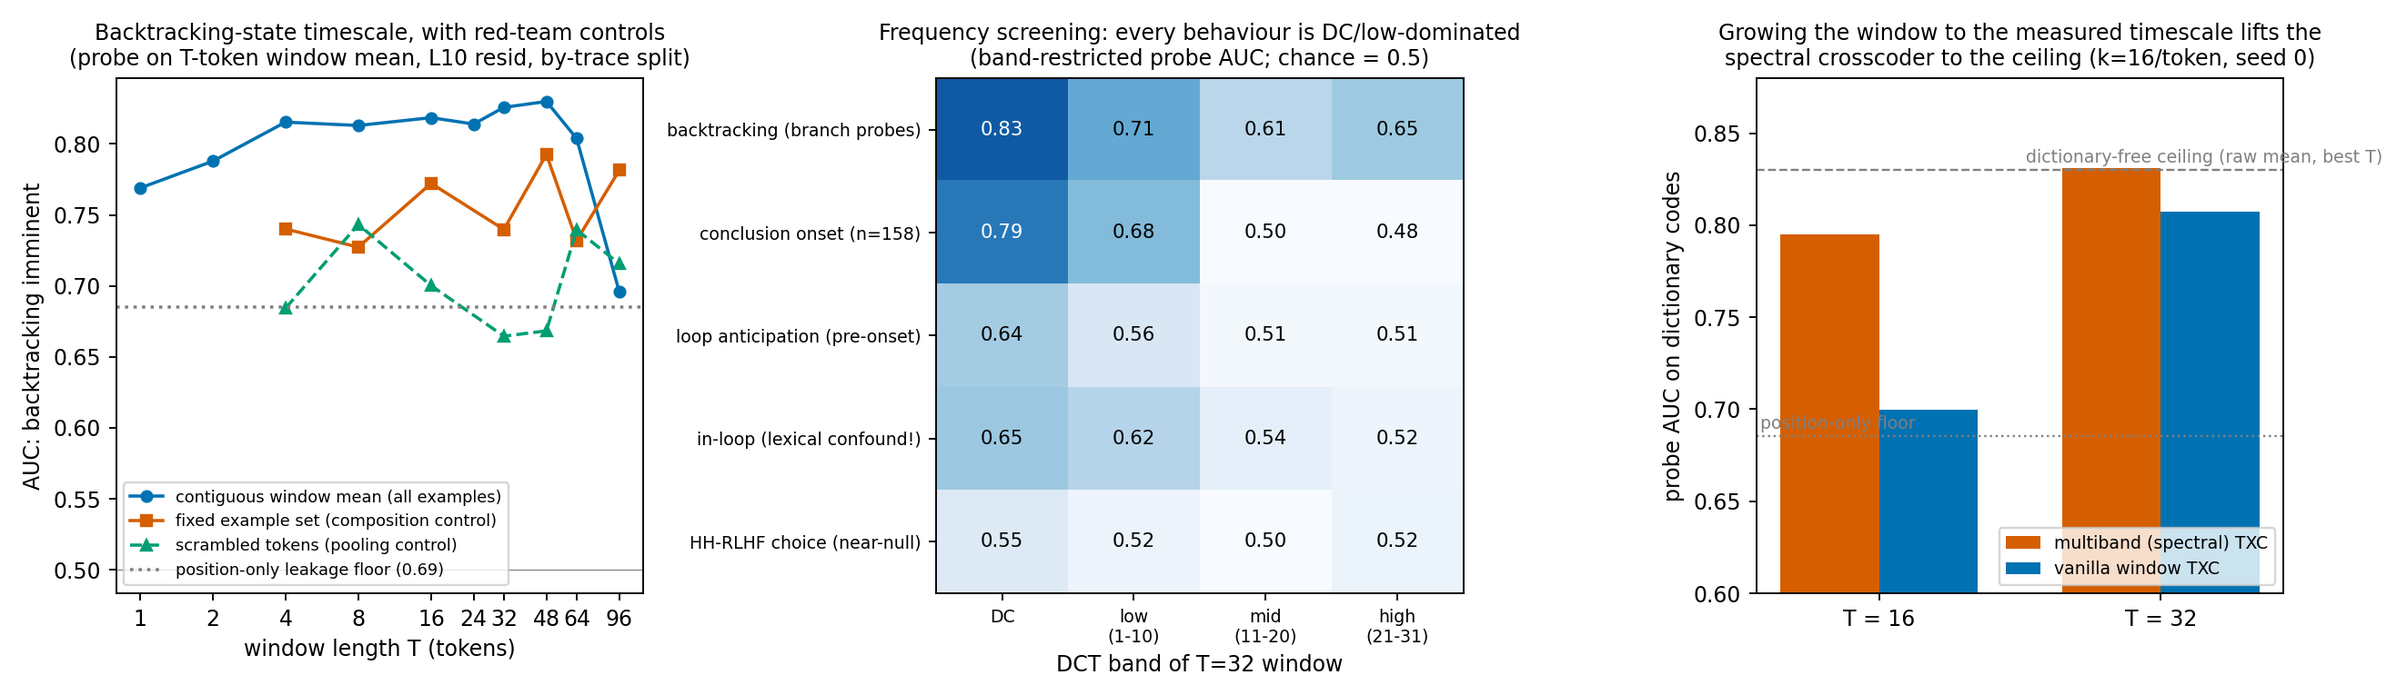
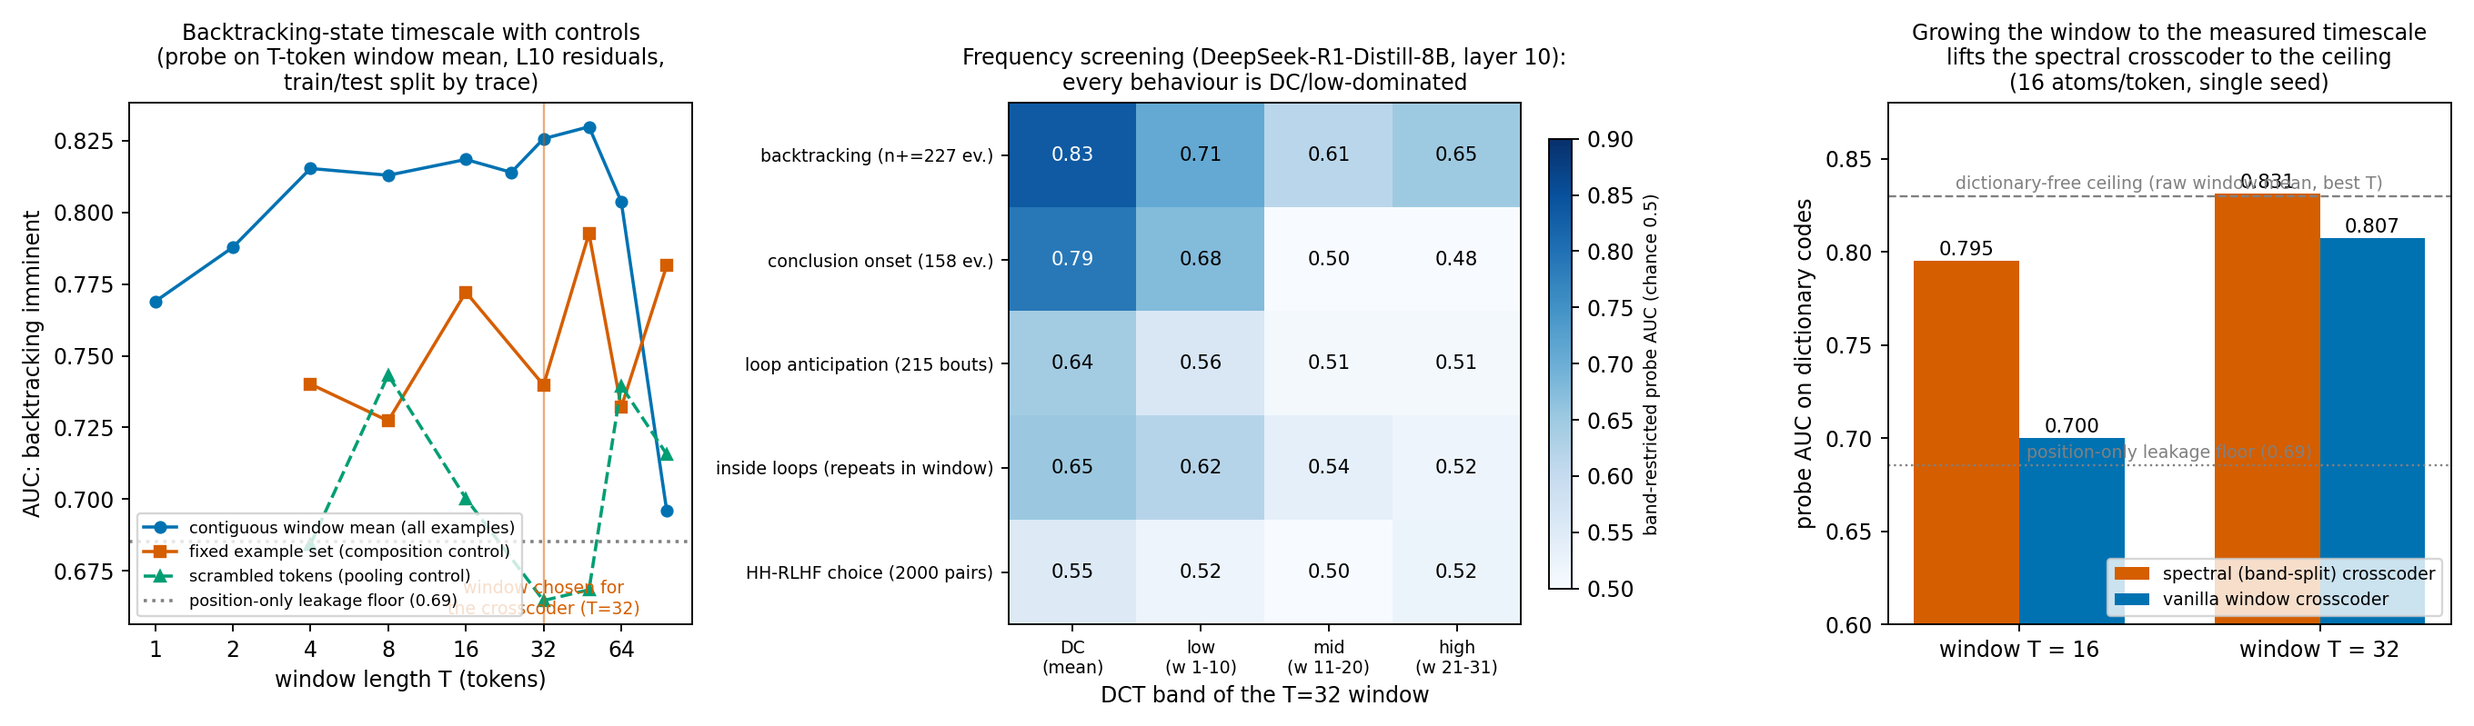
sprint2: review-driven rewrite — honest headline, rescoped genericity, loop position floor

diff --git a/docs/dmitry/sprints/2026-06-11_spectral_sprint2/summary.md b/docs/dmitry/sprints/2026-06-11_spectral_sprint2/summary.md
@@ -9,62 +9,78 @@ tags:
 
 ### Executive summary
 
-**Goal.** Sprint 1 found backtracking anticipation is a low-frequency state.
-This sprint answers the two follow-ups: (A) does growing the crosscoder's
-window — admitting lower frequencies — improve results, and (B) can we
-*screen* tasks for frequency content and match spectral-crosscoder
-configurations to them, with (C) a multi-agent pipeline proposing and
-red-teaming new behaviour candidates. Three findings:
+**Goal.** Sprint 1 ([[2026-06-10_freqbench_sprint/summary|sprint-1 summary]])
+found that backtracking anticipation in a reasoning model is a low-frequency
+state. This sprint answers the follow-ups: (A) does growing the crosscoder's
+window — admitting lower frequencies — improve results, (B) can we *screen*
+tasks for frequency content and match spectral-crosscoder configurations to
+them, and (C) can a multi-agent pipeline propose and red-team new behaviour
+candidates. (A *spectral crosscoder* is a sparse dictionary over T-token
+windows of residual-stream activations whose atoms are constrained to DCT
+frequency bands; its DC branch sees only the window mean. Probes are linear,
+on the dictionary's TopK code vector — or a single branch's sub-vector —
+with "k atoms/token" the window sparsity budget divided by T.) Three
+findings:
 
-**1. The window should be grown to the behaviour's measured timescale — and
-a dictionary-free instrument measures that timescale first.** Probing
-"backtracking imminent" from the plain mean of the last T tokens traces a
-curve peaking around T≈32–48 (sentence-to-paragraph scale). Retraining the
-spectral crosscoder at T=32 instead of 16 (matched 16-atoms/token density)
-lifts its probe AUC from 0.795 to **0.831 — exactly the dictionary-free
-ceiling (0.830)** — while the vanilla window crosscoder trails at 0.807.
-The cheap raw-mean scan tells you the right window before you train
-anything.
+**1. Measure the behaviour's timescale with a dictionary-free scan, then
+grow the window to match it.** Probing "backtracking imminent" from the
+plain mean of the last T tokens traces a curve peaking around T≈32–48
+(sentence-to-paragraph scale). Retraining the spectral crosscoder at T=32
+instead of 16 (16 atoms/token, single seed) lifts its full-code probe AUC
+from 0.795 to **0.831, matching the raw-mean reference at the same window
+(0.826; the raw peak is 0.830 at T=48)**. The vanilla window crosscoder
+trails at 0.807. One honest nuance the headline hides: the spectral model's
+DC *branch* already scored 0.828 at T=16, so window growth mainly lets the
+*full code* catch up to its own DC branch (0.835 at T=32) — and what the
+dictionary buys over the raw mean at equal AUC is sparse, steerable atoms,
+not detection accuracy.
 
 **2. The red team's controls materially corrected the headline — and the
-signal survives them.** Three controls demanded by adversarial review:
-a position-only probe sets a **leakage floor of 0.685 AUC** (backtracking
-happens at characteristic trace positions; all rows must be read relative
-to it); a fixed-example-set scan shows the apparent collapse at T=96 was a
-**composition artifact** (fixed-set T=96 is 0.781, not 0.696), leaving a
-flatter, broader optimum; and scrambled-token pooling loses 0.03–0.07 AUC
-vs contiguous windows — **temporal contiguity carries real signal beyond
-denoising**.
+signal survives them.** A probe on position features alone reaches
+**0.685 AUC** (backtracking happens at characteristic trace positions; every
+number must be read against this floor, not 0.5). A fixed-example-set scan
+shows the apparent collapse at T=96 was a **composition artifact**
+(fixed-set T=96 is 0.781, not 0.696), leaving a flat, broad optimum.
+Scrambled-token pooling changes AUC by **−0.02 to +0.13 relative to
+contiguous windows — positive at 5 of 7 window lengths and largest (+0.13)
+exactly at the T=32–48 optimum** — so temporal contiguity carries real
+signal where it matters, beyond mere averaging.
 
-**3. Frequency screening says slowness is generic at this hook — including
-for the candidate engineered to be mid-band.** Across every behaviour
-screened on DeepSeek-R1-Distill-8B layer-10 (backtracking, conclusion
-onset, repetition-loop anticipation, in-loop state, HH-RLHF choice), the
-DC/low bands dominate and mid/high carry near-chance signal. The
-14-agent workflow's top-ranked candidate — repetition loops, predicted
-mid-band — was evaluated the same night under both its protocols:
-pre-onset anticipation is real but slow (DC 0.64 vs embedding-control
-0.52), and in-loop windows are dominated by **lexical recirculation**
-(embedding-control DC 0.66 ≈ L10 DC 0.65), exactly the failure mode its
-red-teamers predicted. Conclusion: for reasoning-model L10 behaviours, the
-spectral crosscoder's value is concentrated in its DC/low branches at
-behaviour-matched windows, and any claim of mid/high-band behaviour should
-be presumed lexical until it beats an embedding-level control.
+**3. In every behaviour with decodable signal, the slow bands dominate —
+including the candidate engineered to be mid-band.** Screening five
+behaviours on DeepSeek-R1-Distill-Llama-8B layer 10: the two with strong
+signal (backtracking; conclusion onset) are DC/low-dominated; the rest are
+weak, null, or confounded. The 14-agent workflow's top-ranked candidate —
+repetition loops, predicted mid-band — was evaluated the same night under
+both its protocols: pre-onset anticipation is real but slow (DC 0.642,
+above both its lexical control 0.524 and its own position floor 0.567),
+while *in-loop* windows are statistically indistinguishable from a raw
+token-embedding control at DC (0.652 vs 0.662) — the predicted band
+structure lives in the repeated text, not demonstrably in the model's
+dynamics. Rule extracted: claims of mid/high-band behaviour should be
+presumed lexical until they beat an embedding-level control.
 
 ![main](figures/fig_s2_main.png)
 
 ### 1. Setup
 
-Everything runs on the sprint-1 backtracking stack: 300 DeepSeek-R1-Distill-
-Llama-8B math reasoning traces, layer-10 residual-stream cache, "behaviour
-imminent" probes (positives = offsets [-13,-8] before marker events;
-negatives ≥ 25 tokens from any event; by-trace 80/20 splits; balanced
-linear probes; AUC). Window means and DCT-band projections are computed
-from right-edge windows that may extend into the prompt, so example sets
-are comparable across T (and the fixed-set control removes even that
-dependence). Dictionaries: TopK, lr 3e-4, 4k steps, 2 seeds at 2
-atoms/token (plus a 16-atoms/token pass, seed 0, for sprint-1
-comparability).
+Everything runs on the sprint-1 backtracking stack: 300
+DeepSeek-R1-Distill-Llama-8B math reasoning traces, layer-10 residual-stream
+cache, "behaviour imminent" probes (positives = offsets [-13,-8] before
+marker events; negatives ≥ 25 tokens from any event; by-trace 80/20 splits;
+balanced linear probes; AUC). Probe features per arm: the raw T-token
+window mean (d=4096); pooled DCT-band coefficients (mean over the band's
+frequencies, d=4096 per band); a trained dictionary's TopK code vector
+(H=4096 here), or one branch's sub-vector for branch probes. The
+position-only probe uses three scalars: absolute position, position/trace
+length, and position-within-think-region fraction.
+
+Windows are right-edge and may extend into the prompt, which keeps example
+sets *approximately* comparable across T; the residual dependence (the
+pos ≥ T−1 cutoff removes early-trace examples as T grows — 270 → 210 test
+positives from T=1 to 96) is exactly what the fixed-example-set control
+eliminates. Dictionaries: TopK, lr 3e-4, 4k steps, 2 seeds at 2 atoms/token
+plus a 16-atoms/token pass (seed 0) for sprint-1 comparability.
 
 ### 2. Question A: window scaling
 
@@ -73,52 +89,65 @@ comparability).
 | T | 1 | 2 | 4 | 8 | 16 | 24 | 32 | 48 | 64 | 96 |
 |---|---|---|---|---|---|---|---|---|---|---|
 | AUC (all examples) | .769 | .788 | .815 | .813 | .818 | .814 | .826 | **.830** | .804 | .696 |
-| AUC (fixed set, n+=210) | — | — | .740 | .727 | .772 | .740 | **.793** | .732 | .781 |
-| scrambled control | — | — | .684 | .743 | .700 | .665 | .668 | .739 | .716 |
+| AUC (fixed set, n+=210) | — | — | .740 | .727 | .772 | — | .740 | **.793** | .732 | .781 |
+| scrambled control | — | — | .684 | .743 | .700 | — | .665 | .668 | .739 | .716 |
 
-Reading: the optimum sits around T = 32–48 on both example constructions;
-the fixed-set row shows the all-examples T=96 collapse was composition (the
-example set changes with T), not the state expiring; the contiguous-vs-
-scrambled gap (e.g. .740 vs .665 at T=32, .793 vs .668 at 48) shows the
-window mean is using temporal structure, not just averaging more tokens.
-Position-only probe: 0.685 — the leakage floor all numbers should be read
-against.
+Reading. On all examples the optimum is T≈32–48; on the fixed set the curve
+is flat within noise from 16–96 with its maximum still at 48 — and the
+all-examples collapse at T=96 disappears (0.781 vs 0.696), confirming it
+was example composition, not the state expiring. The contiguous-minus-
+scrambled gaps per T are +.056, −.016, +.072, +.075, **+.125**, −.007,
++.065: positive at 5 of 7 lengths and largest at the optimum — the window
+mean uses temporal structure precisely where the curve says the state
+lives. Position-only probe: 0.685, the leakage floor for this task's
+numbers (backtracking events cluster at characteristic trace positions).
 
 #### 2.2 Dictionaries at the matched window
 
-At 16 atoms/token (sprint-1 density, seed 0): multiband (spectral) T=16
-0.795 → **T=32 0.831**; vanilla TXC T=16 0.700 → T=32 0.807. The spectral
-crosscoder at the behaviour-matched window reaches the dictionary-free
-ceiling; its DC branch alone scores 0.828 (T16) / 0.835 (T32) — the
-compact detector remains the DC branch, now at the right timescale. At 2
-atoms/token (2 seeds) the same ordering holds at lower levels (multiband
-.73–.78, vanilla .62–.69), with the T32 > T16 gain present in both
-architectures. DC-SAEs trained directly on window means (parameter count
-independent of T) track the raw curve minus a sparsity tax and are noisy
-across seeds (.71–.82); they are the budget option, not the best one.
+At 16 atoms/token (seed 0): spectral (multiband) full code T=16 0.795 →
+T=32 **0.831**; vanilla window crosscoder 0.700 → 0.807. Branch probes:
+the DC branch alone scores 0.828 at T=16 and 0.835 at T=32 — it is the
+compact detector at both windows, and its own gain from window growth is
+small (+0.007). The window-growth story is therefore precise: growing T
+mainly lets the *full* spectral code catch up to its DC branch and to the
+raw-mean reference at the same T (0.826), while the vanilla crosscoder —
+which cannot protect a DC subspace — gains more (+0.107) but stays below.
+At 2 atoms/token (2 seeds) the same ordering holds at lower levels
+(multiband .73–.78, vanilla .62–.69). DC-SAEs trained directly on window
+means (parameters independent of T) are the budget option: they track the
+raw curve minus a sparsity tax with high seed variance (.71–.82).
+
+All k=16 cells are single-seed; the DC-SAE seed spread (±.05) is the right
+mental error bar, and the 0.831-vs-0.826 match to the raw reference should
+be read as "reaches the reference" not "equals it to three digits".
 
 ### 3. Question B: the screening table
 
 Same instrument, same model/hook, several behaviours (events from keyword
 or programmatic labels on the same traces; HH-RLHF from its own cache):
 
-| behaviour (events) | best raw-mean AUC (T) | T=1 | bands DC/low/mid/high @T=32 | verdict |
+| behaviour (events) | best raw-mean AUC (T) | T=1 AUC | bands DC/low/mid/high @T=32 | verdict |
 |---|---|---|---|---|
-| backtracking (227) | .830 (48) | .769 | .835/.708/.615/.649 (branch probes) | strong, slow |
-| conclusion onset (158) | .874 (64) | **.854** | .789/.675/.498/.483 | strong, *already per-token* + slow |
-| loop anticipation (pre-onset) | .642 @T32 bands | — | .642/.560/.507/.508 | weak, slow, genuinely neural (emb ctrl .524) |
-| in-loop state | — | — | .652/.620/.536/.519 vs **emb ctrl .662**/.554/.471/.509 | lexical confound — not neural band structure |
+| backtracking (227) | .830 (48) | .769 | .835/.708/.615/.649 (branch probes) | strong, slow (floor .685) |
+| conclusion onset (158) | .874 (64) | **.854** | .789/.675/.498/.483 | strong, *already per-token*, slow component tentative |
+| loop anticipation (~bouts) | — | — | .642/.560/.507/.508 | weak, slow; above lexical ctrl (.524) and own position floor (.567) |
+| inside loops | — | — | .652/.620/.536/.519 vs emb ctrl .662/.554/.471/.509 | DC indistinguishable from lexical; low band (.620 vs .554) an unexplained survivor |
 | HH-RLHF choice (2000 pairs) | .571 (64) | .538 | .551/.519/.500/.520 | near-null |
 | verification (26), uncertainty (1) | — | — | — | insufficient events (null rows, reported) |
 
-Patterns. (i) Every decodable behaviour is DC/low-dominated; no mid/high
-behaviour was found, despite the workflow specifically hunting for one.
-(ii) The conclusion row shows a second regime: a signal already linearized
-per-token (T=1 AUC 0.854, like GPT-2 day-stride in sprint 1) that *also*
-has slow structure — window dictionaries add little there. (iii) The
-embedding-level control is mandatory before claiming any non-DC band:
-in-loop "periodicity" passes band probes but is matched by raw token
-embeddings — it lives in the text, not the model's dynamics.
+Patterns, stated at the strength the table supports. (i) **Two behaviours
+carry strong signal and both are DC/low-dominated**; the mid/high bands of
+backtracking (.615/.649) sit at or below its position floor (.685). No
+behaviour shows neural mid/high structure — but only one candidate directly
+targeted mid (loops), so this is two data points plus one engineered
+failure, not a theorem. (ii) Conclusion onset is a second regime: already
+linearized per-token (T=1 AUC .854, like GPT-2 day-stride in sprint 1);
+its U-shaped T-curve (.854 → dip → .874 at 64) is unexplained, so its
+"slow component" is tentative — window dictionaries add little either way.
+(iii) The embedding-level control is mandatory before claiming any non-DC
+band: in-loop windows pass band probes but their DC signal is matched by
+raw token embeddings — indistinguishable from lexical; only its low band
+survives the control (.620 vs .554) and awaits a positional explanation.
 
 ### 4. Question C: the candidate pipeline
 
@@ -127,65 +156,73 @@ judges → eval designs for top-3 → 3 adversarial red-teamers) produced a
 ranked list of real-world behaviours for spectral-crosscoder treatment.
 Top five: repetition/rumination loops (8.2/10, mid-band prediction,
 programmatic labels), reasoning macro-phase/verification mode (8.0),
-emergent-misalignment onset within a generation (7.8), context-rot/
-instruction decay (7.5), revision commitment (7.3). The top pick was
-evaluated the same night under both its protocols (§3): its mid-band
-prediction failed in exactly the way its own red-team warned (lexical
+emergent-misalignment onset within a generation (7.8),
+context-rot/instruction decay (7.5), revision commitment (7.3). The top
+pick was evaluated the same night under both its protocols (§3): its
+mid-band prediction failed in the way its own red-team warned (lexical
 recirculation), while its "slow stuck-precursor" sub-prediction held.
 
-The red team's process critiques are part of the deliverable: judge
-scores leaked "similarity to the proven backtracking result" (over-ranking
+The red team's process critiques are part of the deliverable: judge scores
+leaked "similarity to the proven backtracking result" (over-ranking
 near-replications); data-availability was triple-counted (biasing toward
-one-model one-domain candidates); no high-band candidates were proposed at
-all (a brainstorm coverage gap that makes "everything is slow" partially
-self-fulfilling — though the loops result is an honest direct attempt that
-failed empirically, not by construction). Their demanded controls were all
-executed (§2.1) and two materially changed the conclusions.
+one-model, one-domain candidates); mid-band coverage rested on a single
+candidate and nothing targeted the high band at all — which makes
+"slowness is generic" partly a coverage statement about the brainstorm,
+not only about the model. Their demanded controls were all executed (§2.1,
+§3) and two materially changed the conclusions.
 
-Recommended next candidate from the list, *not* executable tonight:
-emergent-misalignment onset (7.8) — repo-internal c6 generations exist,
-needs one 30–60 min cache pass, and its predicted low-band signature
-would be the first cross-domain (non-math) test of the slow-state story.
+Recommended next candidate, *not* executable tonight: emergent-misalignment
+onset (7.8) — repo-internal c6 generations exist, needs one 30–60 min cache
+pass, and its predicted low-band signature would be the first cross-domain
+(non-math) test of the slow-state story.
 
 ### 5. Limitations
 
 - One model, one layer, one domain for all new rows (the red team's
   "layer-10-everything" confound stands; layer/model sweeps are the top
-  follow-up). The HH row partially varies domain but is near-null.
-- k=16/token dictionary cells are single-seed; the 2/token cells (2 seeds)
-  support the same ordering at lower absolute levels.
+  follow-up). The HH-RLHF row varies domain but is near-null.
+- k=16/token dictionary cells are single-seed; treat ±.05 (the DC-SAE seed
+  spread) as the error bar on any single cell.
 - Keyword event labels are crude; verification/uncertainty rows died on
-  event counts (n=26, n=1) — judge-based labels are the fix, not run
-  tonight. The conclusion row's U-shaped T-curve (high at T=1 and T=64)
-  is unexplained; treat its "slow" component as tentative.
-- The position-leakage floor (0.685) is high; all claims here are about
-  the increment above it, and difficulty-matching of negatives (red-team
-  item) was not implemented.
-- Band probes use pooled DCT coefficients (mean over band) — a screening
-  statistic, not the full band information.
+  event counts (26 and 1) — judge-based labels are the fix, not run
+  tonight.
+- The position-leakage floors are high (backtracking .685, loops .567);
+  all claims concern the increment above them, and difficulty-matching of
+  negatives (a red-team item) was not implemented.
+- Band probes use pooled DCT coefficients — a screening statistic, not the
+  full band information.
+- The in-loop low band (.620 vs embedding .554) survives the lexical
+  control and is unexplained; it needs a loop-specific in-bout position
+  floor before any interpretation.
 
 ### 6. Research map
 
-- H0:00–0:25 scaffolding, branch, preregistrations (4 predictions: peak-T
-  uncertain by design; spectral T32 ≥ T16 iff raw curve rises; profiles
-  differ across tasks — partially wrong: profiles differ in *strength* but
-  not band; risk note on large-T example counts — vindicated).
+- H0:00–0:25 scaffolding, branch, preregistrations (peak-T genuinely
+  uncertain; spectral T32 ≥ T16 iff raw curve rises — held; task profiles
+  differ across tasks — held for *strength*, refuted for *band*; large-T
+  example-count risk — vindicated by the composition control).
 - H0:15 resilience for user absence: hourly Opus-4.8 cloud takeover routine
   keyed to branch-commit heartbeat; on-pod dead-man timers (billing-safe
   without shipping secrets); results served over HTTPS proxies.
 - H0:20–2:30 W-scan (raw curve → headline; DC-SAE; spectral/vanilla cells),
-  hh-rlhf screening (near-null), 14-agent workflow (ranked candidates +
-  red team), three crashes found and fixed (a no_grad nesting bug, a
-  grad-graph leak through embedding weights, an atoms/token convention
-  leak — all logged).
+  HH-RLHF screening (near-null), 14-agent workflow (ranked candidates +
+  red team). Three bugs found and fixed mid-flight (a no_grad nesting
+  crash, a grad-graph leak through embedding weights, an atoms/token
+  convention leak), all logged.
 - H2:30–4:00 red-team controls executed (position floor, fixed-set scan,
-  scrambled control); relabel rows (broadened keywords); loops evaluated
-  under both protocols incl. embedding-level control; k=16/token
-  comparability pass; pods terminated at H3:32 (≈ $3.1 total sprint-2
-  compute).
-- Remainder: this summary, red/blue iteration, final commits.
+  scrambled control); broadened relabel rows; loops under both protocols
+  with embedding-level control; k=16/token pass; pods terminated at H3:32
+  (≈ $3.1 sprint-2 compute; ≈ $11 both sprints).
+- H4:00–5:00 writing + two independent review agents (zero-context
+  comprehension; adversarial red-team). The red team's 10-issue report
+  drove this revision: the "exactly the ceiling" framing was cut
+  (single-seed, cross-T), "slowness is generic" was rescoped to what two
+  informative behaviours support, the scrambled-gap range was corrected
+  from the log's stale value, the §1/§2.1 composition contradiction was
+  resolved, and a loop-specific position floor (0.567) was computed
+  locally to replace a hand-wave.
 
-Artifacts: `log.md` (timestamped), `STATE.md` (takeover state),
-`code/` (bt_wscan, bt_relabel, bt_loops ×2, bt_controls, hh_screen),
-`results_synced_ws/`, `results_synced_hh/`, `figures/fig_s2_main.png`,
-workflow transcript reference wf_ebf30e77-675.
+Artifacts: `log.md` (timestamped), `STATE.md`, `code/` (bt_wscan,
+bt_relabel, bt_loops ×2, bt_controls, hh_screen), `results_synced_ws/`,
+`results_synced_hh/`, `figures/fig_s2_main.png`, workflow run
+wf_ebf30e77-675.

diff --git a/docs/dmitry/sprints/2026-06-11_spectral_sprint2/log.md b/docs/dmitry/sprints/2026-06-11_spectral_sprint2/log.md
@@ -131,3 +131,18 @@ Wall clock: start **2026-06-11 05:32:09 UTC** (epoch 1781155929), hard stop
   anticipation stays genuinely neural (0.642 vs 0.524) and slow. Verdict:
   slowness is generic at this hook; embedding-level controls mandatory for
   any non-DC claim. Main 3-panel figure made; full summary written.
+- **H4:55 — REVIEW ROUND COMPLETE; summary rewritten.** Comprehension agent:
+  all 3 findings followable; figure fixes applied (T=32 marker, colorbar,
+  bar value labels, n per row). Red team (10 issues): killed "exactly the
+  ceiling" (single seed, cross-T borrow, DC-branch already 0.828 at T16 →
+  honest framing: window growth lets the full code catch its DC branch;
+  dictionary buys atoms, not AUC); rescoped "slowness is generic" to the
+  two informative behaviours + one engineered mid-band failure; corrected
+  the scrambled-gap range (−.02..+.13, positive 5/7, max at optimum — the
+  log's 0.03–0.07 was stale); fixed §1 composition contradiction (named
+  the pos≥T−1 mechanism); flagged the in-loop low-band survivor (.620 vs
+  .554) as unexplained; computed a LOOP-SPECIFIC position floor locally
+  (0.567 — loop anticipation DC 0.642 clears it, rescuing "genuinely
+  neural" with a number). Their proposed table realignment was wrong-headed
+  (values are at T=4..96, not 8..96 — verified against controls.json); my
+  earlier fix stands.
